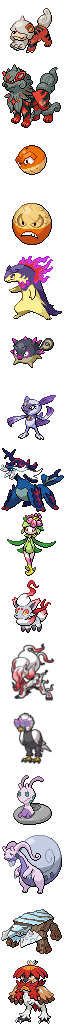
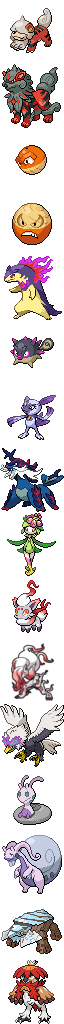
Shiny regional forms

Changed region(s): [[0.0312, 0.6875, 1.0, 0.75]]

diff --git a/css/pokemon.css b/css/pokemon.css
@@ -2975,6 +2975,24 @@
 .alolan .dexEntry .pokesprite.muk img, .pokesprite.alolan.muk img { background-image:url('../img/pokemon-alola-large.png')!important; background-position: 0px -15em!important; }
 .alolan .dexEntry .pokesprite.exeggutor img, .pokesprite.alolan.exeggutor img { background-image:url('../img/pokemon-alola-large.png')!important; background-position: 0px -16em!important; }
 .alolan .dexEntry .pokesprite.marowak img, .pokesprite.alolan.marowak img { background-image:url('../img/pokemon-alola-large.png')!important; background-position: 0px -17em!important; }
+.alolan .shiny .dexEntry .pokesprite.rattata img, .pokesprite.alolan.shiny.rattata img { background-image:url('../img/pokemon-alola-large-shiny.png')!important; background-position: 0px -0em!important; }
+.alolan .shiny .dexEntry .pokesprite.raticate img, .pokesprite.alolan.shiny.raticate img { background-image:url('../img/pokemon-alola-large-shiny.png')!important; background-position: 0px -1em!important; }
+.alolan .shiny .dexEntry .pokesprite.raichu img, .pokesprite.alolan.shiny.raichu img { background-image:url('../img/pokemon-alola-large-shiny.png')!important; background-position: 0px -2em!important; }
+.alolan .shiny .dexEntry .pokesprite.sandshrew img, .pokesprite.alolan.shiny.sandshrew img { background-image:url('../img/pokemon-alola-large-shiny.png')!important; background-position: 0px -3em!important; }
+.alolan .shiny .dexEntry .pokesprite.sandslash img, .pokesprite.alolan.shiny.sandslash img { background-image:url('../img/pokemon-alola-large-shiny.png')!important; background-position: 0px -4em!important; }
+.alolan .shiny .dexEntry .pokesprite.vulpix img, .pokesprite.alolan.shiny.vulpix img { background-image:url('../img/pokemon-alola-large-shiny.png')!important; background-position: 0px -5em!important; }
+.alolan .shiny .dexEntry .pokesprite.ninetales img, .pokesprite.alolan.shiny.ninetales img { background-image:url('../img/pokemon-alola-large-shiny.png')!important; background-position: 0px -6em!important; }
+.alolan .shiny .dexEntry .pokesprite.diglett img, .pokesprite.alolan.shiny.diglett img { background-image:url('../img/pokemon-alola-large-shiny.png')!important; background-position: 0px -7em!important; }
+.alolan .shiny .dexEntry .pokesprite.dugtrio img, .pokesprite.alolan.shiny.dugtrio img { background-image:url('../img/pokemon-alola-large-shiny.png')!important; background-position: 0px -8em!important; }
+.alolan .shiny .dexEntry .pokesprite.meowth img, .pokesprite.alolan.shiny.meowth img { background-image:url('../img/pokemon-alola-large-shiny.png')!important; background-position: 0px -9em!important; }
+.alolan .shiny .dexEntry .pokesprite.persian img, .pokesprite.alolan.shiny.persian img { background-image:url('../img/pokemon-alola-large-shiny.png')!important; background-position: 0px -10em!important; }
+.alolan .shiny .dexEntry .pokesprite.geodude img, .pokesprite.alolan.shiny.geodude img { background-image:url('../img/pokemon-alola-large-shiny.png')!important; background-position: 0px -11em!important; }
+.alolan .shiny .dexEntry .pokesprite.graveler img, .pokesprite.alolan.shiny.graveler img { background-image:url('../img/pokemon-alola-large-shiny.png')!important; background-position: 0px -12em!important; }
+.alolan .shiny .dexEntry .pokesprite.golem img, .pokesprite.alolan.shiny.golem img { background-image:url('../img/pokemon-alola-large-shiny.png')!important; background-position: 0px -13em!important; }
+.alolan .shiny .dexEntry .pokesprite.grimer img, .pokesprite.alolan.shiny.grimer img { background-image:url('../img/pokemon-alola-large-shiny.png')!important; background-position: 0px -14em!important; }
+.alolan .shiny .dexEntry .pokesprite.muk img, .pokesprite.alolan.shiny.muk img { background-image:url('../img/pokemon-alola-large-shiny.png')!important; background-position: 0px -15em!important; }
+.alolan .shiny .dexEntry .pokesprite.exeggutor img, .pokesprite.alolan.shiny.exeggutor img { background-image:url('../img/pokemon-alola-large-shiny.png')!important; background-position: 0px -16em!important; }
+.alolan .shiny .dexEntry .pokesprite.marowak img, .pokesprite.alolan.shiny.marowak img { background-image:url('../img/pokemon-alola-large-shiny.png')!important; background-position: 0px -17em!important; }
 .pokesprite.articuno.ultra img { background-image:url("../img/alternate/ultra/articuno.png")!important; background-position: center!important; }
 .pokesprite.blastoise.ultra img { background-image:url("../img/alternate/ultra/blastoise.png")!important; background-position: center!important; }
 .pokesprite.bulbasaur.ultra img { background-image:url("../img/alternate/ultra/bulbasaur.png")!important; background-position: center!important; }

diff --git a/poke-styles/pokemon/galarian.ts b/poke-styles/pokemon/galarian.ts
@@ -7,3 +7,5 @@ var galarian = ["Meowth", "Ponyta", "Rapidash", "Slowpoke", "Slowbro", "Farfetch
 
 addStyles(galarian, (p, i) => ".galar .pokesprite." + dexClean(p) + " img { background-image:url('../img/pokemon-galar.png')!important; background-position: 0px -" + i + "em!important; }");
 addStyles(galarian, (p, i) => ".galarian .dexEntry .pokesprite." + dexClean(p) + " img, .pokesprite.galarian." + dexClean(p) + " img { background-image:url('../img/pokemon-galar-large.png')!important; background-position: 0px -" + i + "em!important; }");
+
+addStyles(galarian, (p, i) => ".galarian .shiny .dexEntry .pokesprite." + dexClean(p) + " img, .pokesprite.galarian.shiny." + dexClean(p) + " img { background-image:url('../img/pokemon-galar-large-shiny.png')!important; background-position: 0px -" + i + "em!important; }");

diff --git a/poke-styles/pokemon/hisuian.ts b/poke-styles/pokemon/hisuian.ts
@@ -7,3 +7,5 @@ var hisuian = ["Growlithe", "Arcanine", "Voltorb", "Electrode", "Typhlosion", "Q
 
 addStyles(hisuian, (p, i) => ".hisui .pokesprite." + dexClean(p) + " img { background-image:url('../img/pokemon-hisui.png')!important; background-position: 0px -" + i + "em!important; }");
 addStyles(hisuian, (p, i) => ".hisuian .dexEntry .pokesprite." + dexClean(p) + " img, .pokesprite.hisuian." + dexClean(p) + " img { background-image:url('../img/pokemon-hisui-large.png')!important; background-position: 0px -" + i + "em!important; }");
+
+addStyles(hisuian, (p, i) => ".hisuian .shiny .dexEntry .pokesprite." + dexClean(p) + " img, .pokesprite.hisuian.shiny." + dexClean(p) + " img { background-image:url('../img/pokemon-hisui-large-shiny.png')!important; background-position: 0px -" + i + "em!important; }");

diff --git a/poke-styles/pokemon/alolan.ts b/poke-styles/pokemon/alolan.ts
@@ -7,3 +7,5 @@ var alolan = ["Rattata", "Raticate", "Raichu", "Sandshrew", "Sandslash", "Vulpix
 
 addStyles(alolan, (p, i) => ".alola .pokesprite." + dexClean(p) + " img { background-image:url('../img/pokemon-alola.png')!important; background-position: 0px -" + i + "em!important; }");
 addStyles(alolan, (p, i) => ".alolan .dexEntry .pokesprite." + dexClean(p) + " img, .pokesprite.alolan." + dexClean(p) + " img { background-image:url('../img/pokemon-alola-large.png')!important; background-position: 0px -" + i + "em!important; }");
+
+addStyles(alolan, (p, i) => ".alolan .shiny .dexEntry .pokesprite." + dexClean(p) + " img, .pokesprite.alolan.shiny." + dexClean(p) + " img { background-image:url('../img/pokemon-alola-large-shiny.png')!important; background-position: 0px -" + i + "em!important; }");
